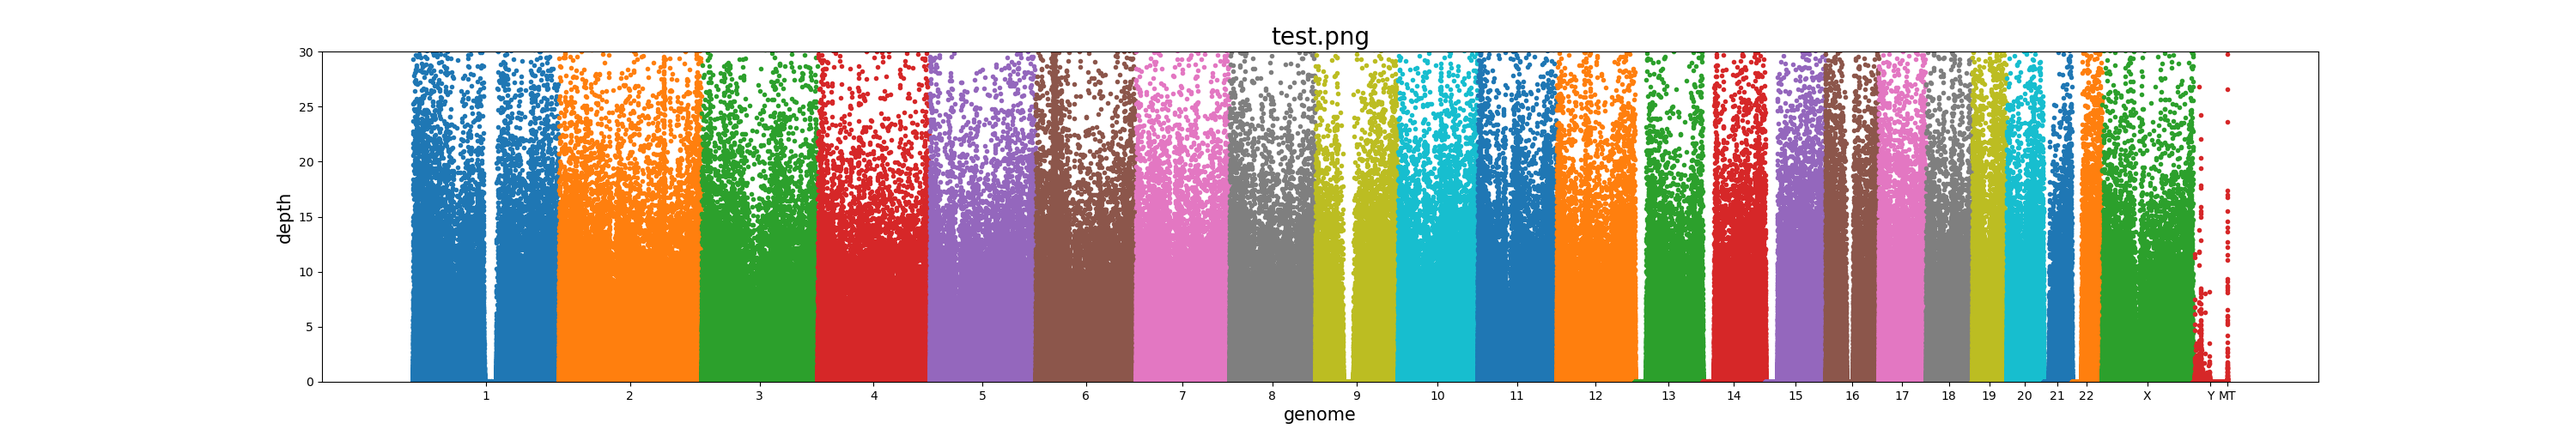
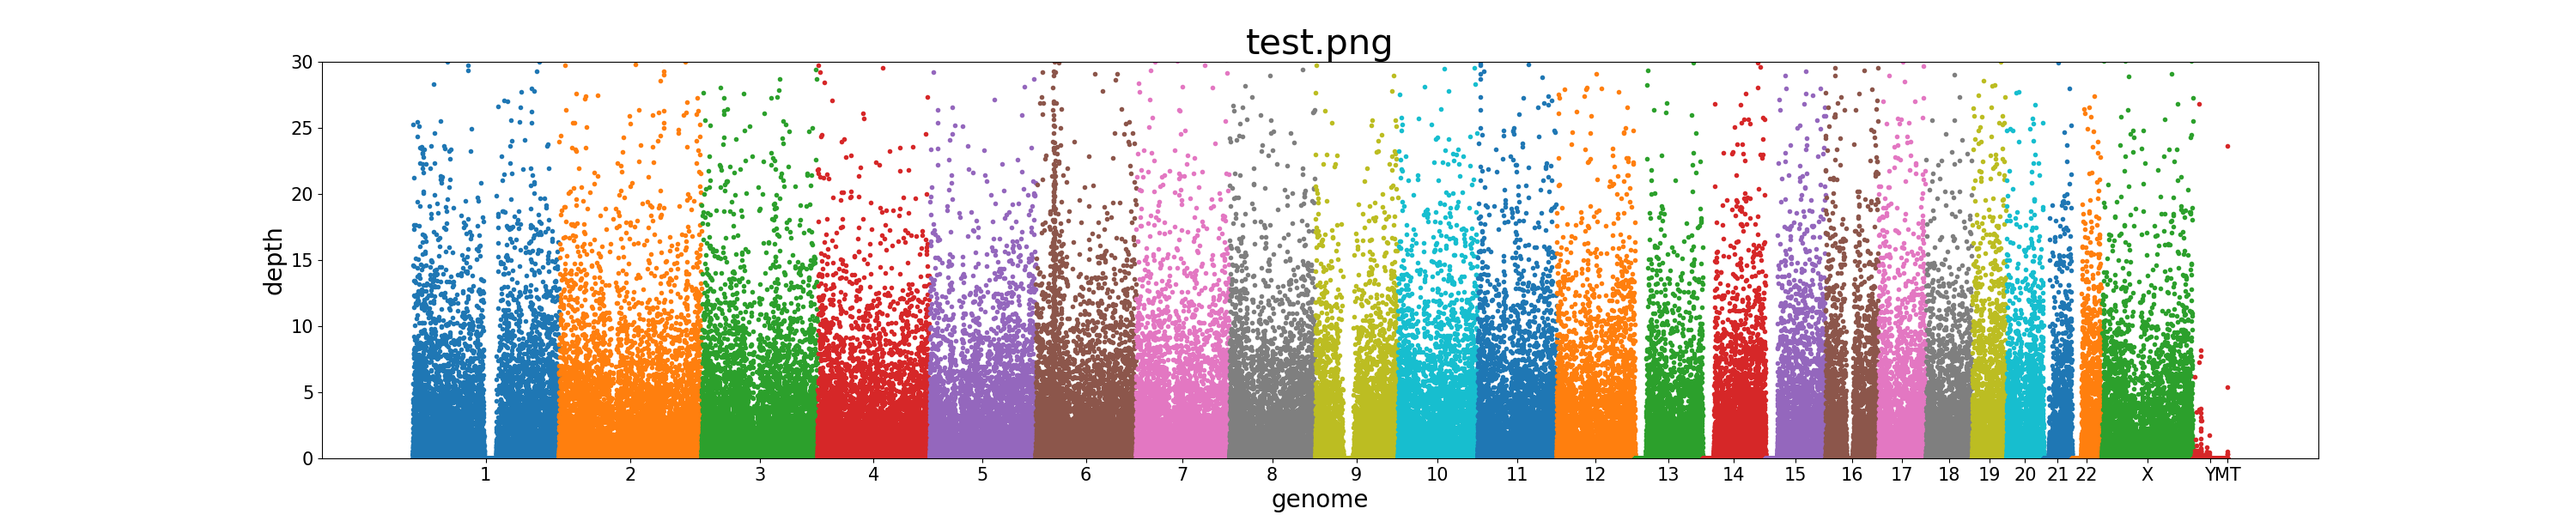
change plt to OO-style

diff --git a/plot_coverage.py b/plot_coverage.py
@@ -2,9 +2,9 @@ import sys
 import matplotlib.pyplot as plt
 
 
-def plot_coverage(d_depth, outfile, title, step=1, figsize=(10,5), ylim=(0, 100)):
+def plot_coverage(d_depth, outfile, title, step=1, figsize=(30,6), ylim=(0, 100)):
     s = 0
-    plt.figure(figsize=figsize)
+    fig,ax = plt.subplots(figsize=figsize)
     x_label_index = []
     x_label_name = []
     for k,v in d_depth.items():
@@ -12,14 +12,15 @@ def plot_coverage(d_depth, outfile, title, step=1, figsize=(10,5), ylim=(0, 100)
         l = len(block)
         x_label_index.append(int((s+s+l)/2))
         x_label_name.append(k)
-        plt.scatter(list(range(s, s+l)), block, marker=".")
+        ax.scatter(list(range(s, s+l)), block, marker=".")
         s += l
-    plt.xticks(x_label_index, x_label_name,fontdict={"fontsize":10})
-    plt.xlabel("genome", fontdict={"fontsize":15})
-    plt.ylabel("depth", fontdict={"fontsize":15})
-    plt.ylim(ylim)
-    plt.title(title, fontdict={"fontsize":20})
-    plt.savefig(outfile)
+    ax.set_xticks(x_label_index, x_label_name, fontsize=15)
+    ax.tick_params("y", labelsize=15)
+    ax.set_xlabel("genome", fontsize = 20)
+    ax.set_ylabel("depth", fontsize = 20)
+    ax.set_ylim(ylim)
+    ax.set_title(title, fontsize = 30)
+    fig.savefig(outfile)
     
 
 if  __name__ == "__main__":
@@ -42,4 +43,4 @@ if  __name__ == "__main__":
             d_depth.setdefault(items[0], []).append(d)
     
     
-    plot_coverage(d_depth, prefix, "%s.png"%(prefix), step=step, figsize=(30, 5), ylim=(0, max_depth))
+    plot_coverage(d_depth, prefix, "%s.png"%(prefix), step=step,  ylim=(0, max_depth))
